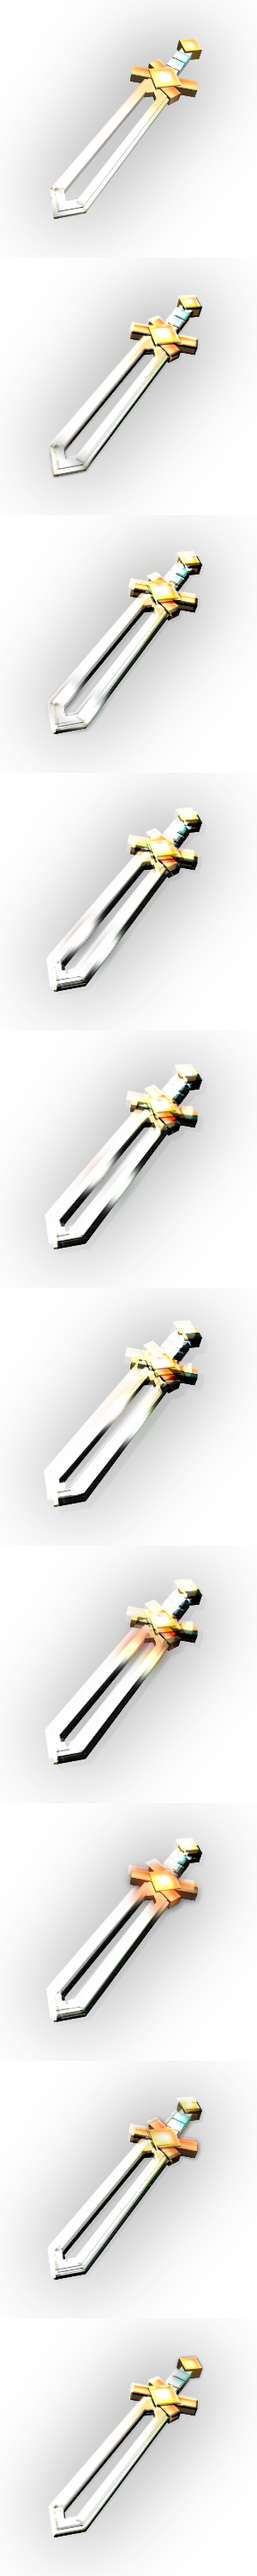
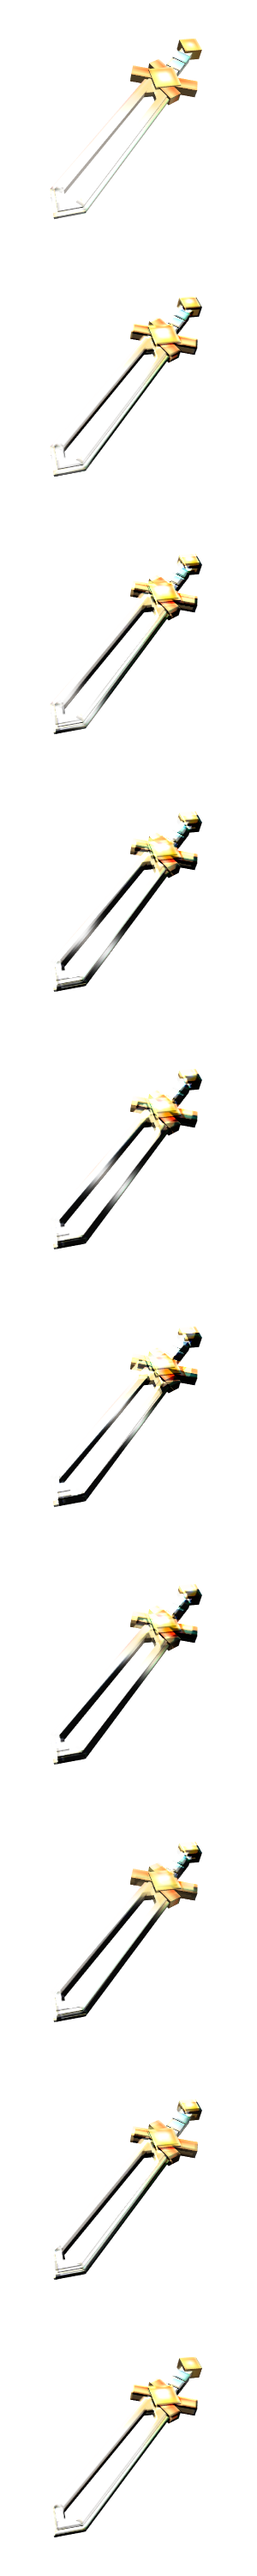
fixed incorrect inventory drawing

Changed region(s): [[0.15, 0.0, 0.84, 0.992]]

diff --git a/Content/Items/Weapons/Melee/ObliviousSword.cs b/Content/Items/Weapons/Melee/ObliviousSword.cs
@@ -109,21 +109,12 @@ namespace sorceryFight.Content.Items.Weapons.Melee
 
         public override bool PreDrawInInventory(SpriteBatch spriteBatch, Vector2 position, Rectangle frameRect, Color drawColor, Color itemColor, Vector2 origin, float scale)
         {
-            spriteBatch.End();
-            spriteBatch.Begin(
-                SpriteSortMode.Immediate,
-                BlendState.NonPremultiplied
-            );
-
             int frameHeight = texture.Height / FRAMES;
             int frameY = (int)(Main.GameUpdateCount / TICKS_PER_FRAME % FRAMES) * frameHeight;
             Rectangle srcRect = new Rectangle(0, frameY, texture.Width, frameHeight);
 
             spriteBatch.Draw(texture, position, srcRect, Color.White, 0f, origin, scale * 1.5f, SpriteEffects.None, 0f);
-
-            spriteBatch.End();
-            spriteBatch.Begin();
-
+            
             return false;
         }
 
